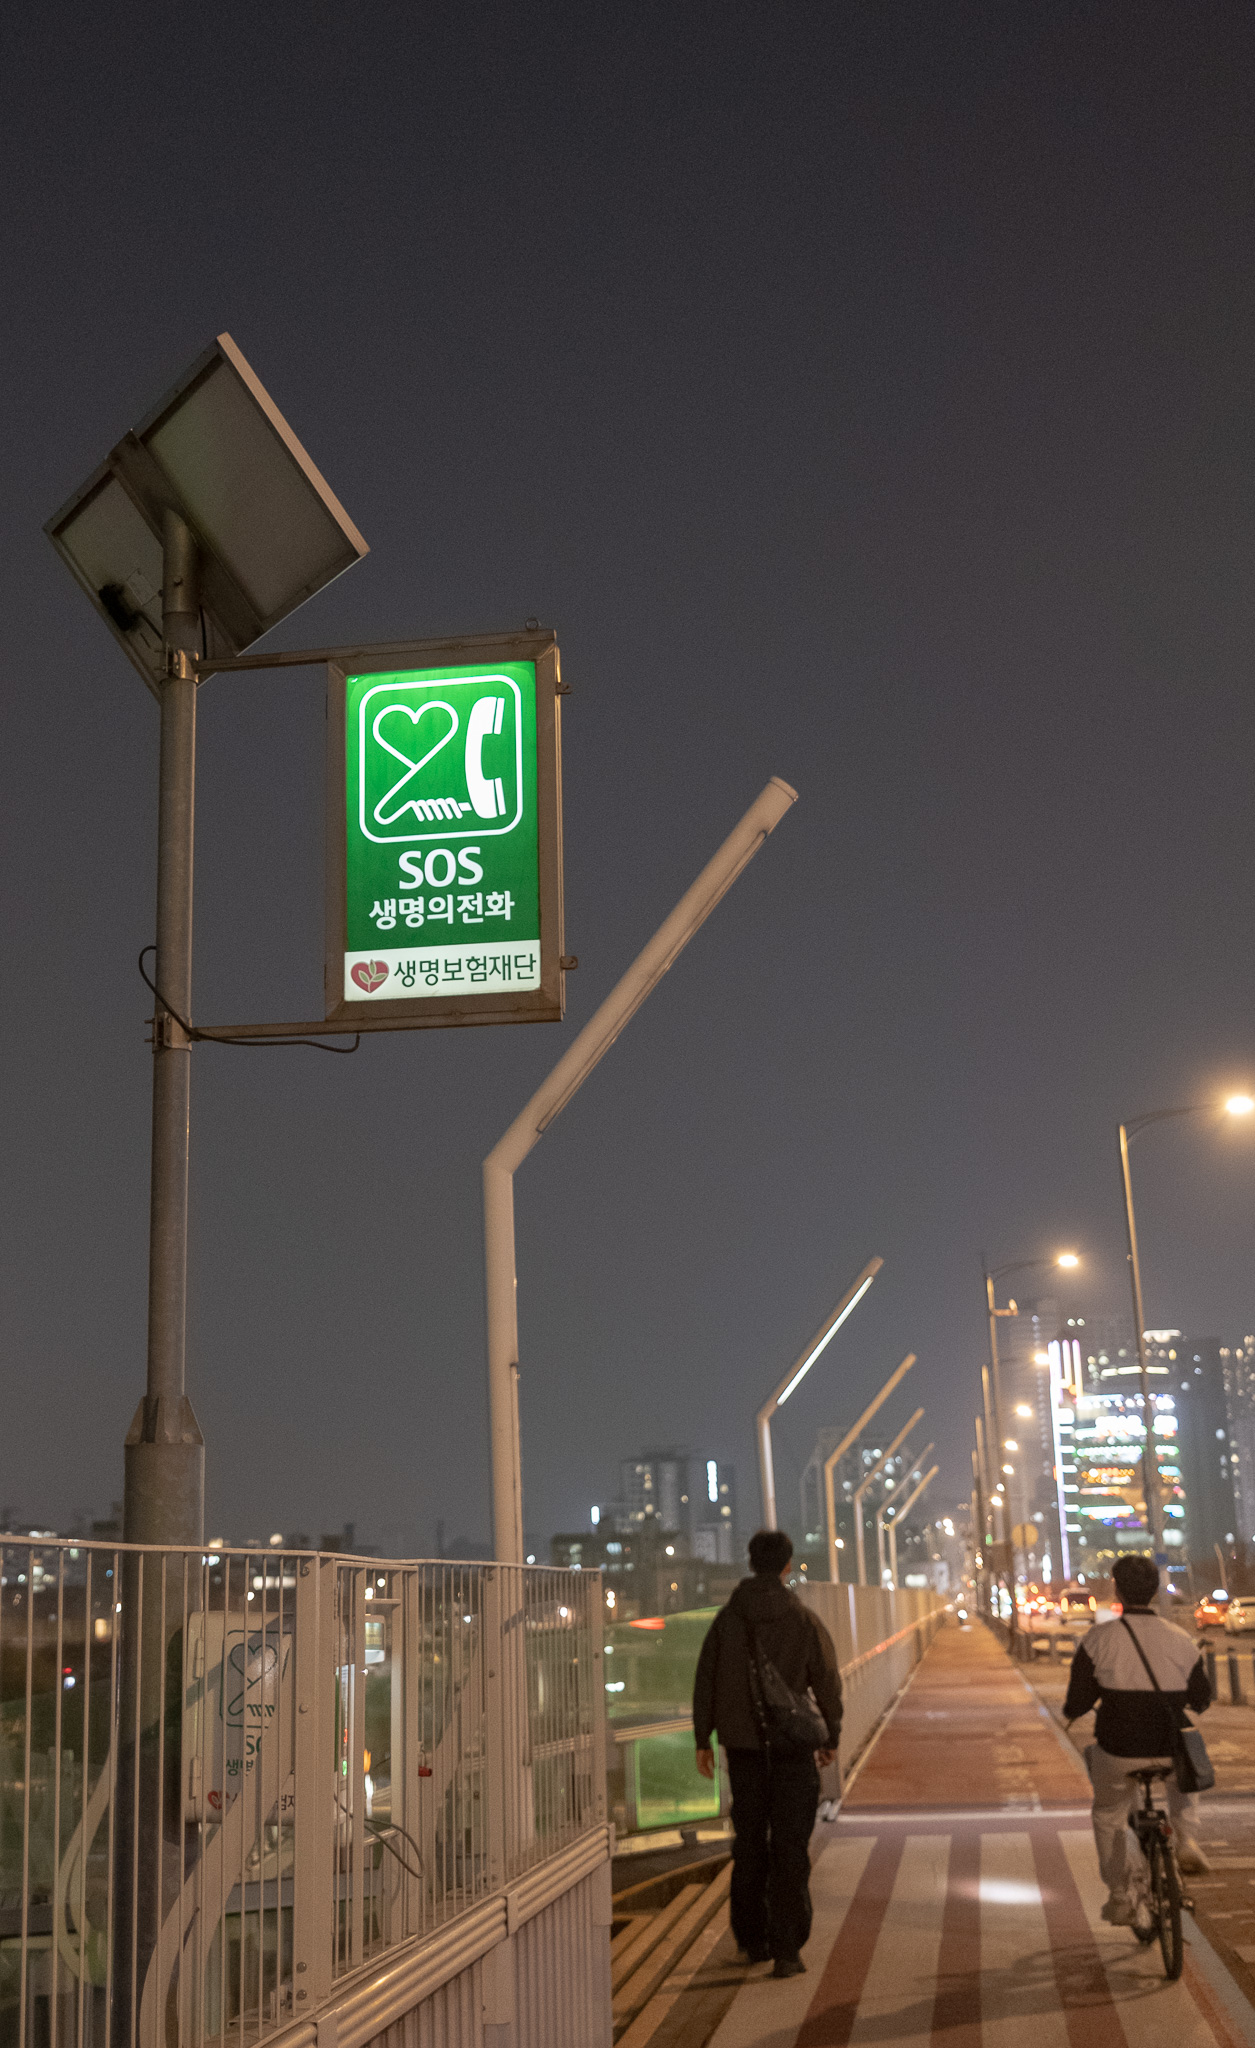
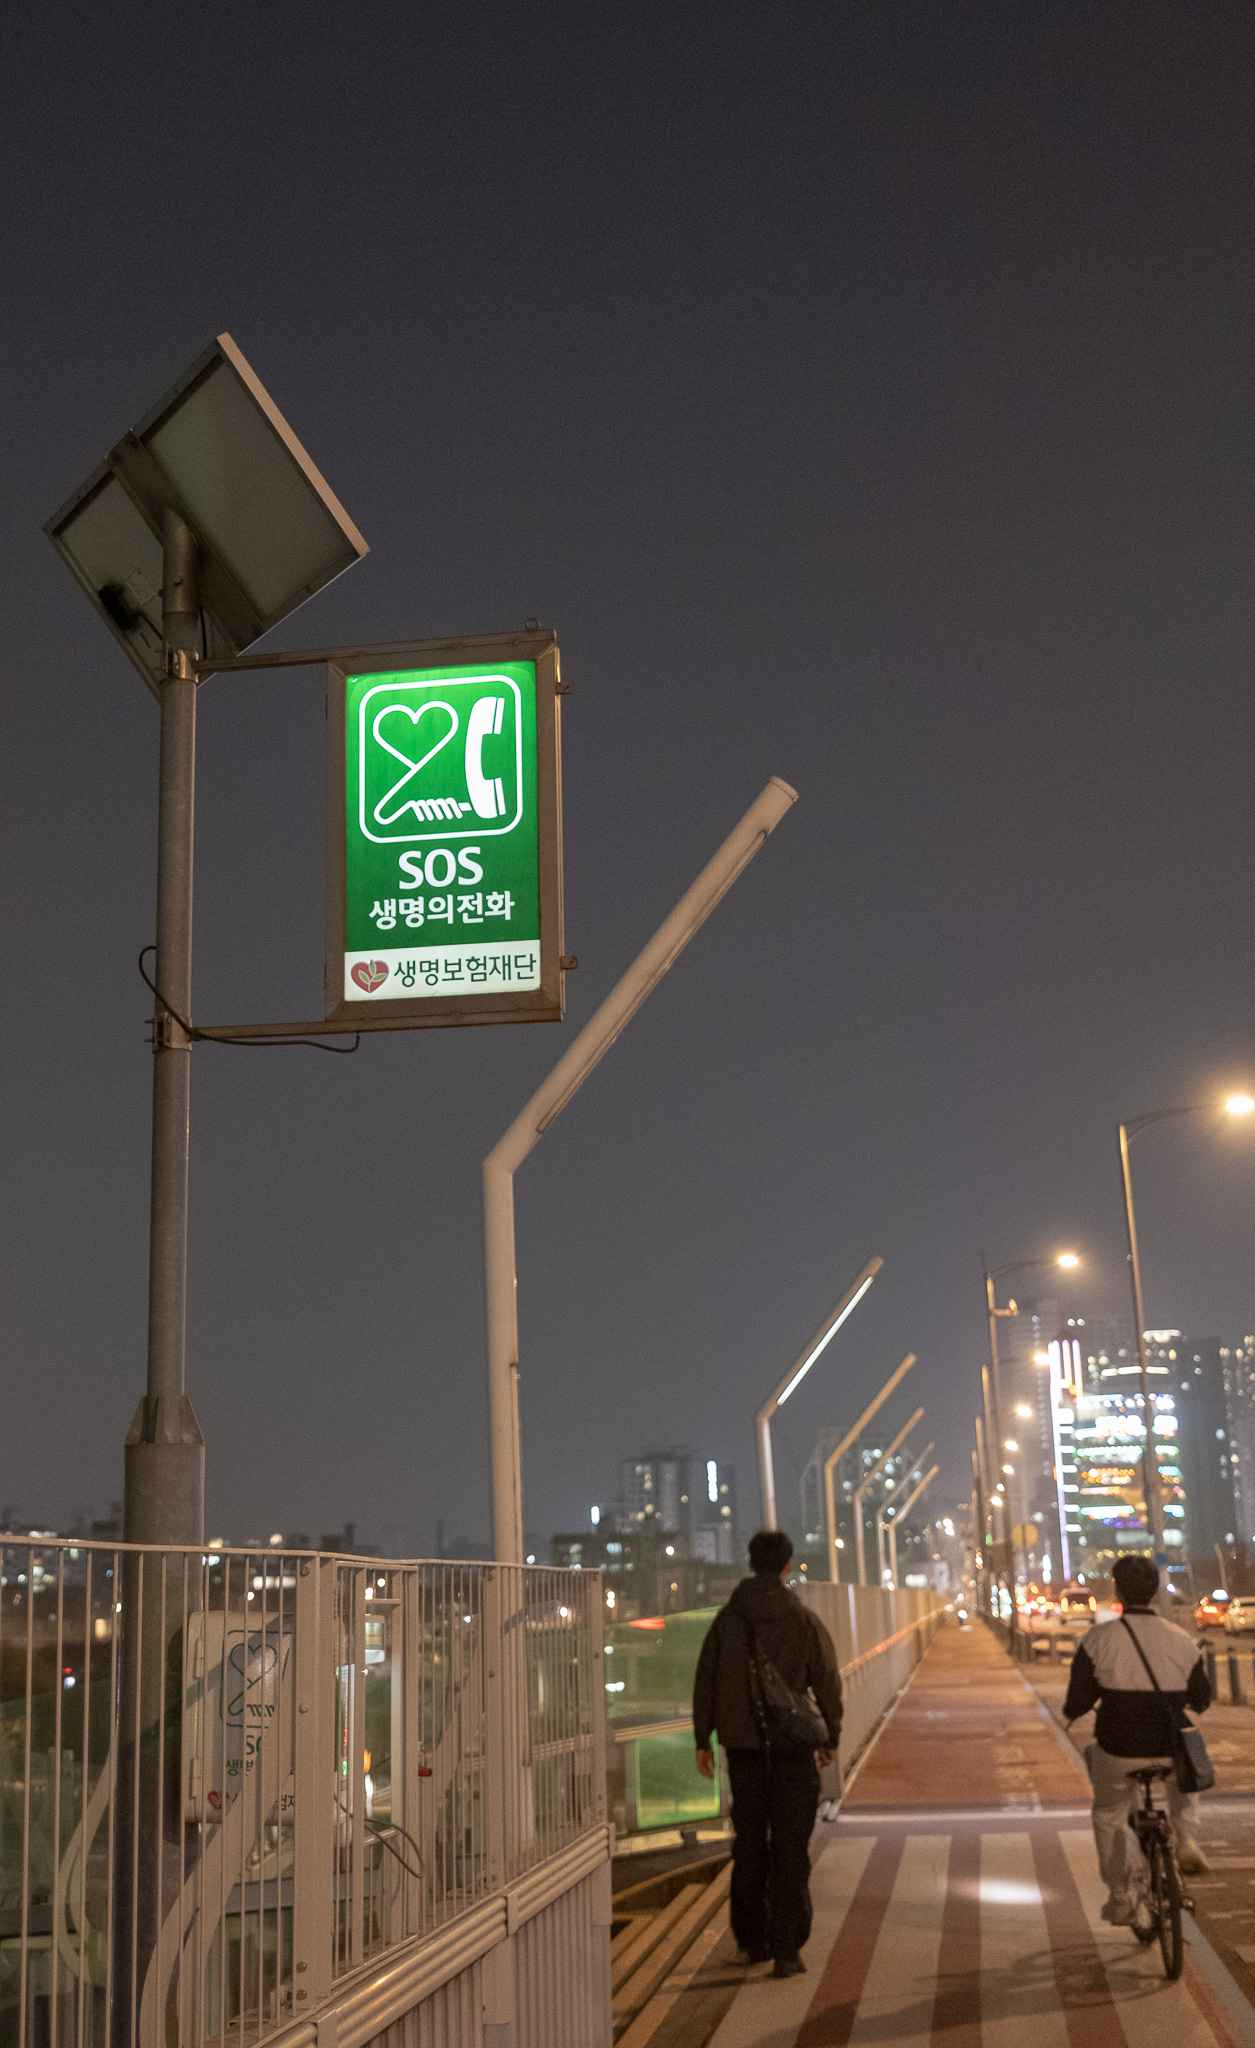
Apply dynamic marquee text with script

Changed region(s): [[0.2797, 0.3125, 0.4351, 0.4375], [0.8701, 0.7188, 0.9012, 0.75]]

diff --git a/src/components/FlowingText.tsx b/src/components/FlowingText.tsx
@@ -22,6 +22,9 @@ export default function FlowingText() {
             {TextData.left.map((item) => (
               <MarqueeText>{item}</MarqueeText>
             ))}
+            {TextData.right.map((item) => (
+              <MarqueeText>{item}</MarqueeText>
+            ))}
           </Marquee>
         </MobileMarqueeContainer>
       </Mobile>

diff --git a/scripts/utils.py b/scripts/utils.py
@@ -2,6 +2,7 @@ from PIL import Image, ExifTags
 import requests
 import config
 import os, json, shutil
+from datetime import datetime
 
 # 사진의 EXIF 데이터를 기반으로 사진 파일 이름을 바꾸어 줍니다.
 def rename_photos_with_exif():
@@ -50,7 +51,20 @@ def generate_json_photo_data():
 
 def update_marquee_text():
     print("[Python] Marquee texts updated based on photo data")
-    pass
+    with open("./src/data/FlowingTextData.json", 'r', encoding="utf-8") as jsonFile:
+        textData = json.load(jsonFile)
+        rightTexts = []
+        for rightText in textData["right"]:
+            if not (("업데이트" in rightText) or ("시선들" in rightText)):
+                rightTexts.append(rightText)
+        photoCnt = len(os.listdir("./src/photos"))
+        rightTexts.append(f"{photoCnt}개의 시선들")
+        dateStr = datetime.today().strftime('%Y.%m.%d')
+        rightTexts.append(f"마지막 업데이트: {dateStr}")
+    textData["right"] = rightTexts
+    with open("./src/data/FlowingTextData.json", 'w', encoding="utf-8") as jsonFile:
+        json.dump(textData, jsonFile,ensure_ascii = False, sort_keys=True, indent=4)
+
 
 # photos/ 의 사진들을 src/photos/로 이동합니다.
 def copy_photos():

diff --git a/scripts/main.py b/scripts/main.py
@@ -3,7 +3,7 @@ import utils
 utils.rename_photos_with_exif()
 utils.generate_json_photo_data()
 utils.copy_photos()
-# utils.optimize_photos(quality=40)
+utils.optimize_photos(quality=40)
 utils.update_marquee_text()
 
 print(f"총 {utils.get_photo_count()}개의 시선들.")

diff --git a/README.md b/README.md
@@ -4,7 +4,9 @@
 
 ## TODOS
 
-- [ ] 반응형
+- [x] 반응형
+- [x] dynamic marquee text
+- [ ] marquee text 사이 star burst svg 추가하기
 - [ ] Instagram bot python script에 추가
 - [ ] 사진 full image로 보기
 - [x] 이미지 최적화
